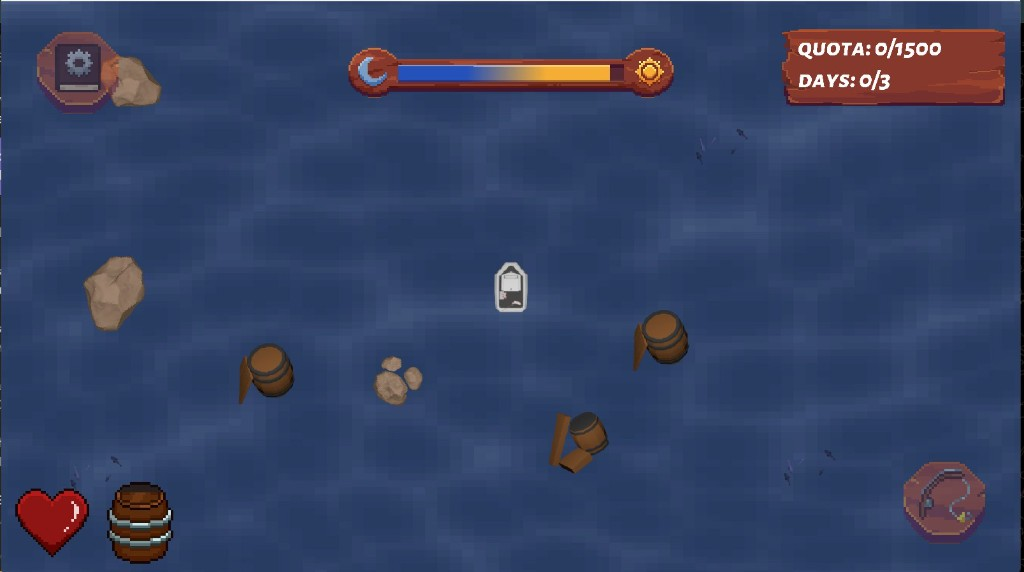
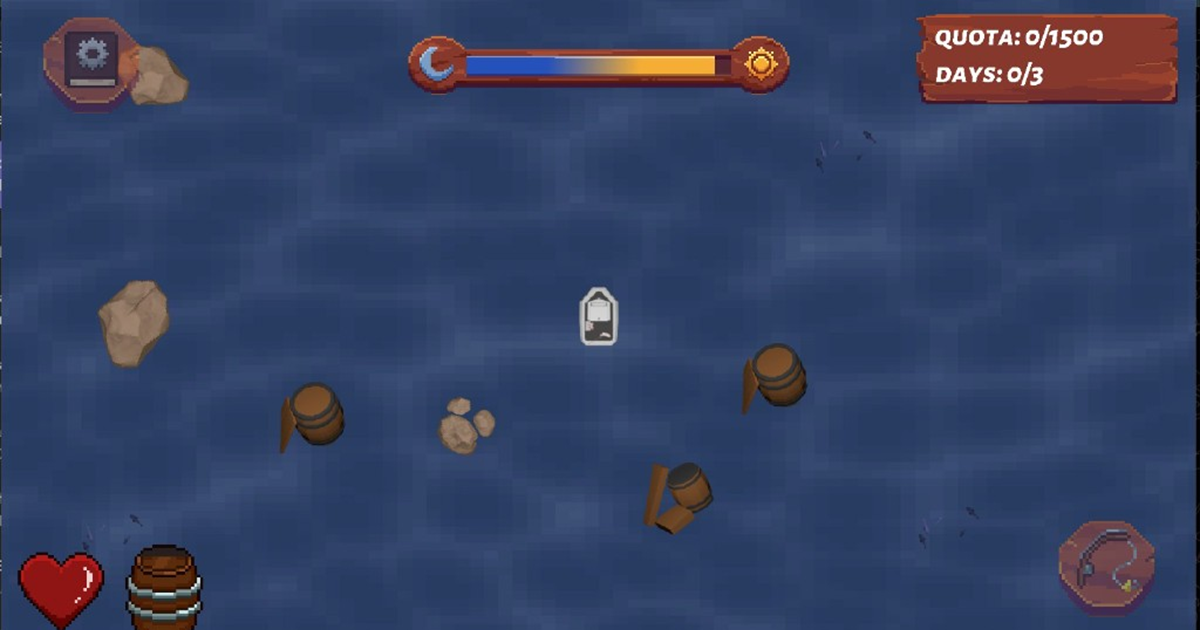
New: Added gossipsimulator

diff --git a/GossipSimulator.html b/GossipSimulator.html
@@ -1,0 +1,240 @@
+<!DOCTYPE html>
+<html lang="en">
+<head>
+  <meta charset="utf-8">
+  <title>Gossip Simulator - Lin Xin</title>
+  <meta name="author" content="Lin Xin">
+  <meta name="viewport" content="width=device-width, initial-scale=1">
+  <meta name="description" content="Solo behaviour-tree campus gossip epidemic in C++ on DigiPen's Rabin Engine. Four agent roles, contact rules, and formation extra credit.">
+  <meta property="og:type" content="article">
+  <meta property="og:title" content="Gossip Simulator &mdash; Lin Xin">
+  <meta property="og:description" content="Solo behaviour-tree campus gossip epidemic. Starters, spreaders, mutators, removers — plus formation extra credit.">
+  <meta property="og:url" content="https://linx-z0.github.io/portfolio/GossipSimulator.html">
+  <meta property="og:image" content="https://linx-z0.github.io/portfolio/Assets/gossip-og.png">
+  <meta name="twitter:card" content="summary_large_image">
+  <link href="https://cdn.jsdelivr.net/npm/bootstrap@5.3.3/dist/css/bootstrap.min.css" rel="stylesheet">
+  <link rel="stylesheet" href="style.css">
+  <script src="https://cdn.jsdelivr.net/npm/bootstrap@5.3.3/dist/js/bootstrap.bundle.min.js"></script>
+  <link rel="preconnect" href="https://fonts.googleapis.com">
+  <link rel="preconnect" href="https://fonts.gstatic.com" crossorigin>
+  <link href="https://fonts.googleapis.com/css2?family=Audiowide&family=Electrolize&family=Norican&family=Nunito&family=Sriracha&display=swap" rel="stylesheet">
+  <link rel="shortcut icon" type="image/svg+xml" href="Assets/heart.svg">
+</head>
+<body class="bg-dark text-light">
+  <div id="twinkle-container"></div>
+
+  <nav id="navbar" class="navbar text-white navbar-expand-lg fixed-top">
+    <div class="container-fluid">
+      <a class="navbar-brand" href="index.html">Lin Xin</a>
+      <button class="navbar-toggler" type="button" data-bs-toggle="collapse" data-bs-target="#navbarNav">
+        <span class="navbar-toggler-icon"></span>
+      </button>
+      <div class="collapse navbar-collapse" id="navbarNav">
+        <ul class="navbar-nav ms-auto">
+          <li class="nav-item"><a class="nav-link" href="index.html#projects">Projects</a></li>
+          <li class="nav-item"><a class="nav-link" href="index.html#design">Design Intent</a></li>
+          <li class="nav-item"><a class="nav-link" href="index.html#about">About Me</a></li>
+          <li class="nav-item"><a class="nav-link" href="index.html#contact">Contact</a></li>
+        </ul>
+      </div>
+    </div>
+  </nav>
+
+  <section id="summary" class="pt-5 mt-5">
+    <div class="container">
+      <div class="mb-4 project-doc">
+        <iframe
+          class="rounded shadow"
+          src="https://drive.google.com/file/d/1_vC9CMKaf6cD0dm6oWwwOxSvFu78x84H/preview"
+          allow="autoplay"
+          allowfullscreen
+          title="Gossip Simulator showcase"
+        ></iframe>
+      </div>
+      <p class="project-links mb-4">
+        <a href="https://drive.google.com/file/d/1_vC9CMKaf6cD0dm6oWwwOxSvFu78x84H/view" target="_blank" rel="noopener">Open showcase on Google Drive</a>
+      </p>
+
+      <figure class="shot">
+        <img src="Assets/GossipSimulator.png" alt="Gossip Simulator running in the Rabin Engine: coloured agents on the campus map with speed, role counts, and formation controls on the right.">
+        <figcaption>The sim in play. Coloured agents on the map; speed, role counts, and formation toggles on the right.</figcaption>
+      </figure>
+
+      <h1 class="display-5 mb-3">Gossip Simulator</h1>
+      <p class="lead">Campus gossip as a spatial epidemic. Four behaviour trees, one contact rule, no scripted chase.</p>
+      <dl class="project-meta">
+        <div>
+          <dt>Role</dt>
+          <dd>Solo &mdash; scenario, BT nodes, trees, formations</dd>
+        </div>
+        <div>
+          <dt>Team</dt>
+          <dd>Solo</dd>
+        </div>
+        <div>
+          <dt>Course</dt>
+          <dd>CSD2183, Year 2 Trimester 3</dd>
+        </div>
+        <div>
+          <dt>Timeline</dt>
+          <dd>4 May &ndash; 11 May 2026</dd>
+        </div>
+        <div>
+          <dt>Stack</dt>
+          <dd>C++, DigiPen Rabin Engine, BehaviorTreeEditor</dd>
+        </div>
+        <div>
+          <dt>State</dt>
+          <dd>Assignment prototype (+ formation EC)</dd>
+        </div>
+      </dl>
+
+      <ul class="scan-strip">
+        <li><strong>Gossip sim</strong> &mdash; clean / orange / yellow state machine on spreaders; contact range 5.0, 0.5&nbsp;s dual cooldown.</li>
+        <li><strong>Four roles</strong> &mdash; Starter, Spreader, Remover, Mutator; each with its own GUI-authored tree.</li>
+        <li><strong>Custom BT nodes</strong> &mdash; eight leaves and five decorators wired into the DigiPen framework.</li>
+        <li><strong>Formations (EC)</strong> &mdash; Single, Wedge, Circle; click terrain for a group goal.</li>
+        <li><strong>Live tuning</strong> &mdash; speed and population buttons while the sim runs.</li>
+        <li><strong>Not mine</strong> &mdash; Rabin Engine, BT runtime, BehaviorTreeEditor, sample nodes (DigiPen framework).</li>
+      </ul>
+
+      <h3 class="mt-4">What we're testing</h3>
+      <p>Whether a readable multi-agent social epidemic can come from <strong>behaviour trees + blackboard + contact rules</strong> &mdash; not from a cutscene, and not from a trust or reputation model. Gossip here is a three-state colour FSM that spreads when agents touch.</p>
+      <p>The asymmetric roles are the experiment. Starters only seed orange. Mutators alone escalate orange to yellow. Yellow then spreads from mutated spreaders. Removers pull everything back to white. If any of those permissions leak, the epidemic stops being legible as design and starts looking like random colour noise.</p>
+
+      <p>Solo week inside the DigiPen AI framework. I designed the scenario, wrote the gossip and formation systems in C++, authored the four trees in the BehaviorTreeEditor, and shipped a showcase video with the assignment.</p>
+
+      <h3 class="mt-4">Design intent</h3>
+      <p>The trap is to write four scripts that walk toward each other and call it AI. Behaviour trees earn their keep when the same leaf vocabulary &mdash; find nearest, move, interact &mdash; produces different social jobs because the <em>decorators and selectors</em> change, not because each role has a private special-case function.</p>
+      <p>That is why infection, mutation, and cleanse share one contact API and one cooldown. The trees decide <em>who</em> to chase and <em>when</em> it is legal to act. The sim decides whether the touch counts. If those layers blur, every bug becomes a rewrite of both.</p>
+
+      <figure class="system-diagram">
+        <svg viewBox="0 0 720 220" role="img" aria-labelledby="gossipStateTitle gossipStateDesc">
+          <title id="gossipStateTitle">Gossip state machine</title>
+          <desc id="gossipStateDesc">Clean white becomes orange when infected, orange becomes yellow when mutated, and both return to clean when cleansed.</desc>
+          <defs>
+            <marker id="arrowGs" viewBox="0 0 10 10" refX="9" refY="5" markerWidth="6" markerHeight="6" orient="auto-start-reverse">
+              <path d="M 0 0 L 10 5 L 0 10 z" fill="#cb93ff"/>
+            </marker>
+          </defs>
+
+          <rect x="40" y="70" width="140" height="70" rx="8" fill="rgba(255,255,255,0.08)" stroke="rgba(255,255,255,0.35)"/>
+          <text x="110" y="100" class="dg-h" text-anchor="middle">CLEAN</text>
+          <text x="110" y="120" class="dg-m" text-anchor="middle">white</text>
+
+          <rect x="290" y="70" width="140" height="70" rx="8" fill="rgba(255,140,0,0.12)" stroke="rgba(255,160,60,0.55)"/>
+          <text x="360" y="100" class="dg-h" text-anchor="middle">INFECTED</text>
+          <text x="360" y="120" class="dg-m" text-anchor="middle">orange</text>
+
+          <rect x="540" y="70" width="140" height="70" rx="8" fill="rgba(255,220,0,0.1)" stroke="rgba(255,220,80,0.5)"/>
+          <text x="610" y="100" class="dg-h" text-anchor="middle">MUTATED</text>
+          <text x="610" y="120" class="dg-m" text-anchor="middle">yellow</text>
+
+          <line x1="184" y1="105" x2="286" y2="105" stroke="#cb93ff" stroke-width="1.5" marker-end="url(#arrowGs)"/>
+          <text x="235" y="92" class="dg-s" text-anchor="middle">infect</text>
+
+          <line x1="434" y1="105" x2="536" y2="105" stroke="#cb93ff" stroke-width="1.5" marker-end="url(#arrowGs)"/>
+          <text x="485" y="92" class="dg-s" text-anchor="middle">mutate</text>
+
+          <path d="M 110 140 C 110 190, 610 190, 610 140" fill="none" stroke="rgba(120,180,255,0.7)" stroke-width="1.5" marker-end="url(#arrowGs)"/>
+          <text x="360" y="208" class="dg-s" text-anchor="middle">cleanse (remover) &mdash; orange or yellow back to white</text>
+        </svg>
+        <figcaption>Only the mutator can escalate orange to yellow. Spreaders copy whatever state they currently hold onto clean targets.</figcaption>
+      </figure>
+
+      <h3 class="mt-4">Roles</h3>
+      <p>Default spawn is sixteen agents. Live UI can add or remove each role while the sim runs (spreaders floor at one).</p>
+      <div class="table-responsive">
+        <table class="table table-dark table-sm qte-table shop-table">
+          <thead>
+            <tr><th scope="col">Role</th><th scope="col">Count</th><th scope="col">Colour</th><th scope="col">Job</th></tr>
+          </thead>
+          <tbody>
+            <tr><td>Starter</td><td>2</td><td>Red</td><td>Seek clean spreaders; infect orange on contact</td></tr>
+            <tr><td>Spreader</td><td>10</td><td>White / orange / yellow</td><td>Carry state; orange and yellow seek clean and copy their own variant</td></tr>
+            <tr><td>Mutator</td><td>2</td><td>Green</td><td>Seek orange only; mutate to yellow</td></tr>
+            <tr><td>Remover</td><td>2</td><td>Blue</td><td>Seek orange or yellow; cleanse to white</td></tr>
+          </tbody>
+        </table>
+      </div>
+      <p class="authored">Authored in <code>P1_Gossip</code> + four <code>.bht</code> trees.</p>
+
+      <h3 class="mt-4">Contact rules</h3>
+      <p>Center-to-center distance &le; <strong>5.0</strong>. Both agents must be off cooldown. A successful interact starts a <strong>0.5&nbsp;s</strong> cooldown on both. That dual gate is what keeps the epidemic from becoming a single-frame flash of every colour at once.</p>
+      <p>Removers taught the sharpest rule: cleanse whoever is actually in range, not only the chase target still sitting on the blackboard. Chasing one agent and touching another is common once the map densifies; if cleanse is bound to the chase ID, removers look broken even when the contact geometry is correct.</p>
+
+      <h3 class="mt-4">Trees and nodes</h3>
+      <p>Four GUI-authored trees in the BehaviorTreeEditor &mdash; Starter, Spreader, Remover, Mutator. Spreader is the deep one (23 nodes, depth 5): formation first if active, else infected or mutated spread branches, else clean wander/idle.</p>
+      <div class="table-responsive">
+        <table class="table table-dark table-sm qte-table shop-table">
+          <thead>
+            <tr><th scope="col">Custom leaves</th><th scope="col">Custom decorators</th></tr>
+          </thead>
+          <tbody>
+            <tr>
+              <td><code>L_FindNearestCleanSpreader</code>, <code>L_FindNearestInfectedOrMutatedSpreader</code>, <code>L_FindNearestOrangeSpreader</code>, <code>L_MoveToTargetAgent</code>, <code>L_SpreadGossipToTarget</code>, <code>L_CleanseGossip</code>, <code>L_MutateNearbyOrange</code>, <code>L_MoveFormationSlot</code></td>
+              <td><code>D_IsGossipClean</code>, <code>D_IsGossipInfected</code>, <code>D_IsGossipMutated</code>, <code>D_IsGossipOffCooldown</code>, <code>D_IsFormationActive</code></td>
+            </tr>
+          </tbody>
+        </table>
+      </div>
+      <p>Blackboard keys hold <code>GossipState</code>, <code>GossipCooldown</code>, and <code>TargetAgent</code> so leaves stay small and the trees stay readable.</p>
+      <figure class="shot">
+        <div class="shot-row">
+          <figure>
+            <img src="Assets/gossip-bt-spreader.png" alt="BehaviorTreeEditor open on Spreader.bht with formation, infected, mutated, and clean branches.">
+            <figcaption>Spreader.bht &mdash; deepest tree</figcaption>
+          </figure>
+          <figure>
+            <img src="Assets/gossip-bt-editor.png" alt="BehaviorTreeEditor open on Mutator.bht: cooldown-gated find, move, mutate, with wander idle fallback.">
+            <figcaption>Mutator.bht</figcaption>
+          </figure>
+        </div>
+        <figcaption>Same leaf vocabulary across roles. Spreader nests formation first, then infected / mutated spread, then clean wander. Mutator is the short escalate branch: find orange, move, mutate.</figcaption>
+      </figure>
+
+      <h3 class="mt-4">Formations (extra credit)</h3>
+      <p>Optional group movement on top of the epidemic. UI toggles Single, Wedge, Circle, or Form Off. Left-click the terrain for a goal; the lowest-ID spreader is leader. Slot spacing 6.0; circle radius 8.0. While formation is active, that branch preempts gossip chase on spreaders &mdash; so you can watch the flock hold shape, then turn Form Off and watch the epidemic resume.</p>
+      <ul>
+        <li><strong>Single</strong> &mdash; diagonal trailing slots (one grouped formation, not a single-file queue).</li>
+        <li><strong>Wedge</strong> &mdash; V rows alternating left / right behind the leader.</li>
+        <li><strong>Circle</strong> &mdash; ring around the click; leader to the center.</li>
+      </ul>
+      <figure class="shot">
+        <img src="Assets/gossip-formation.gif" alt="Spreaders moving in formation toward a click goal on the terrain.">
+        <figcaption>Formation in motion. Click sets the goal; spreaders hold slots instead of chasing gossip until Form Off.</figcaption>
+      </figure>
+      <p class="authored">Authored in <code>P1_Formation</code>.</p>
+
+      <h3 class="mt-4">Outcome and reflection</h3>
+      <p>Shipped as a one-week solo prototype that meets the node and tree requirements, plus the formation bonus. The showcase video is the proof pass; the readable colour epidemic is the design pass.</p>
+      <p>What worked: building the four trees in the BehaviorTreeEditor. Seeing selectors and decorators as a diagram made nesting less abstract than reading only C++. The blackboard kept target and state out of one giant leaf.</p>
+      <p>What hurt: editor depth and single-child composites failing Validate; registering every new node in <code>Nodes.def</code> and <code>NodeHeaders.h</code>; and the remover range-vs-chase bug until cleanse used the agent actually in contact. Formation slot overlap took a separate tuning pass after the gossip rules already worked.</p>
+      <p>If I rebuilt it, I would freeze the contact and state API first with debug logs on, then author trees against that contract &mdash; the same &ldquo;system before scenery&rdquo; lesson that shows up again on <a href="ProjectXeno.html" class="text-info">Project Xeno</a>.</p>
+
+      <h4 class="mt-5">Role</h4>
+      <ul>
+        <li>Scenario design &mdash; roles, colours, infection / mutate / cleanse rules</li>
+        <li>Gossip simulation layer (<code>P1_Gossip</code>)</li>
+        <li>Custom BT leaves and decorators; four authored trees</li>
+        <li>Formation extra credit (<code>P1_Formation</code>) and live tuning UI</li>
+        <li>Showcase video and post-mortem</li>
+      </ul>
+
+      <div class="case-exit mt-5">
+        <p class="mb-2"><span class="case-exit-label">Related</span> <a href="ProjectXeno.html">Project Xeno</a> &mdash; same trimester; multi-agent pressure with a different AI tool (metric-gated FSM vs behaviour trees).</p>
+        <p class="mb-0"><span class="case-exit-label">Questions</span> <a href="mailto:lin.x@digipen.edu">lin.x@digipen.edu</a> &middot; <a href="https://www.linkedin.com/in/xinl0/" target="_blank" rel="noopener">LinkedIn</a></p>
+      </div>
+
+      <a href="index.html#projects" class="btn btn-outline-light mt-4">&larr; Back to Projects</a>
+    </div>
+  </section>
+
+  <footer class="text-white p-4 mt-5" style="background-color: #00000083;">
+    <div class="container">
+      <p class="mb-0 text-end">&copy; 2026 Lin Xin</p>
+    </div>
+  </footer>
+  <script src="script.js"></script>
+</body>
+</html>

diff --git a/ProjectXeno.html b/ProjectXeno.html
@@ -66,7 +66,7 @@
         </div>
         <div>
           <dt>Timeline</dt>
-          <dd>4 May &ndash; 26 Jul 2026</dd>
+          <dd>25 May &ndash; 26 Jul 2026</dd>
         </div>
         <div>
           <dt>Stack</dt>
@@ -270,7 +270,8 @@
       </p>
 
       <div class="case-exit mt-5">
-        <p class="mb-2"><span class="case-exit-label">Related</span> <a href="Overseas.html">Overseas</a> &mdash; earlier C++ systems work; different problem, same habit of making pressure readable.</p>
+        <p class="mb-2"><span class="case-exit-label">Related</span> <a href="GossipSimulator.html">Gossip Simulator</a> &mdash; same trimester; behaviour-tree multi-agent epidemic before the Unreal predator study.</p>
+        <p class="mb-2"><span class="case-exit-label">Also</span> <a href="Overseas.html">Overseas</a> &mdash; earlier C++ systems work; different problem, same habit of making pressure readable.</p>
         <p class="mb-0"><span class="case-exit-label">Questions</span> <a href="mailto:lin.x@digipen.edu">lin.x@digipen.edu</a> &middot; <a href="https://www.linkedin.com/in/xinl0/" target="_blank" rel="noopener">LinkedIn</a></p>
       </div>
 

diff --git a/index.html b/index.html
@@ -112,6 +112,17 @@
           </div>
         </div>
 
+        <div class="col-md-4 mb-4 project-item" data-category="mechanics">
+          <div class="card">
+            <img src="Assets/GossipSimulator.png" class="card-img-top" alt="Gossip Simulator">
+            <div class="card-body">
+              <h5 class="card-title">Gossip Simulator</h5>
+              <p class="card-text">Behaviour-tree gossip epidemic — solo, C++</p>
+              <a href="GossipSimulator.html" class="btn btn-primary">View Project</a>
+            </div>
+          </div>
+        </div>
+
         <div class="col-md-4 mb-4 project-item" data-category="physical">
           <div class="card">
             <img src="Assets/Acquit.png" class="card-img-top" alt="Acquit">
